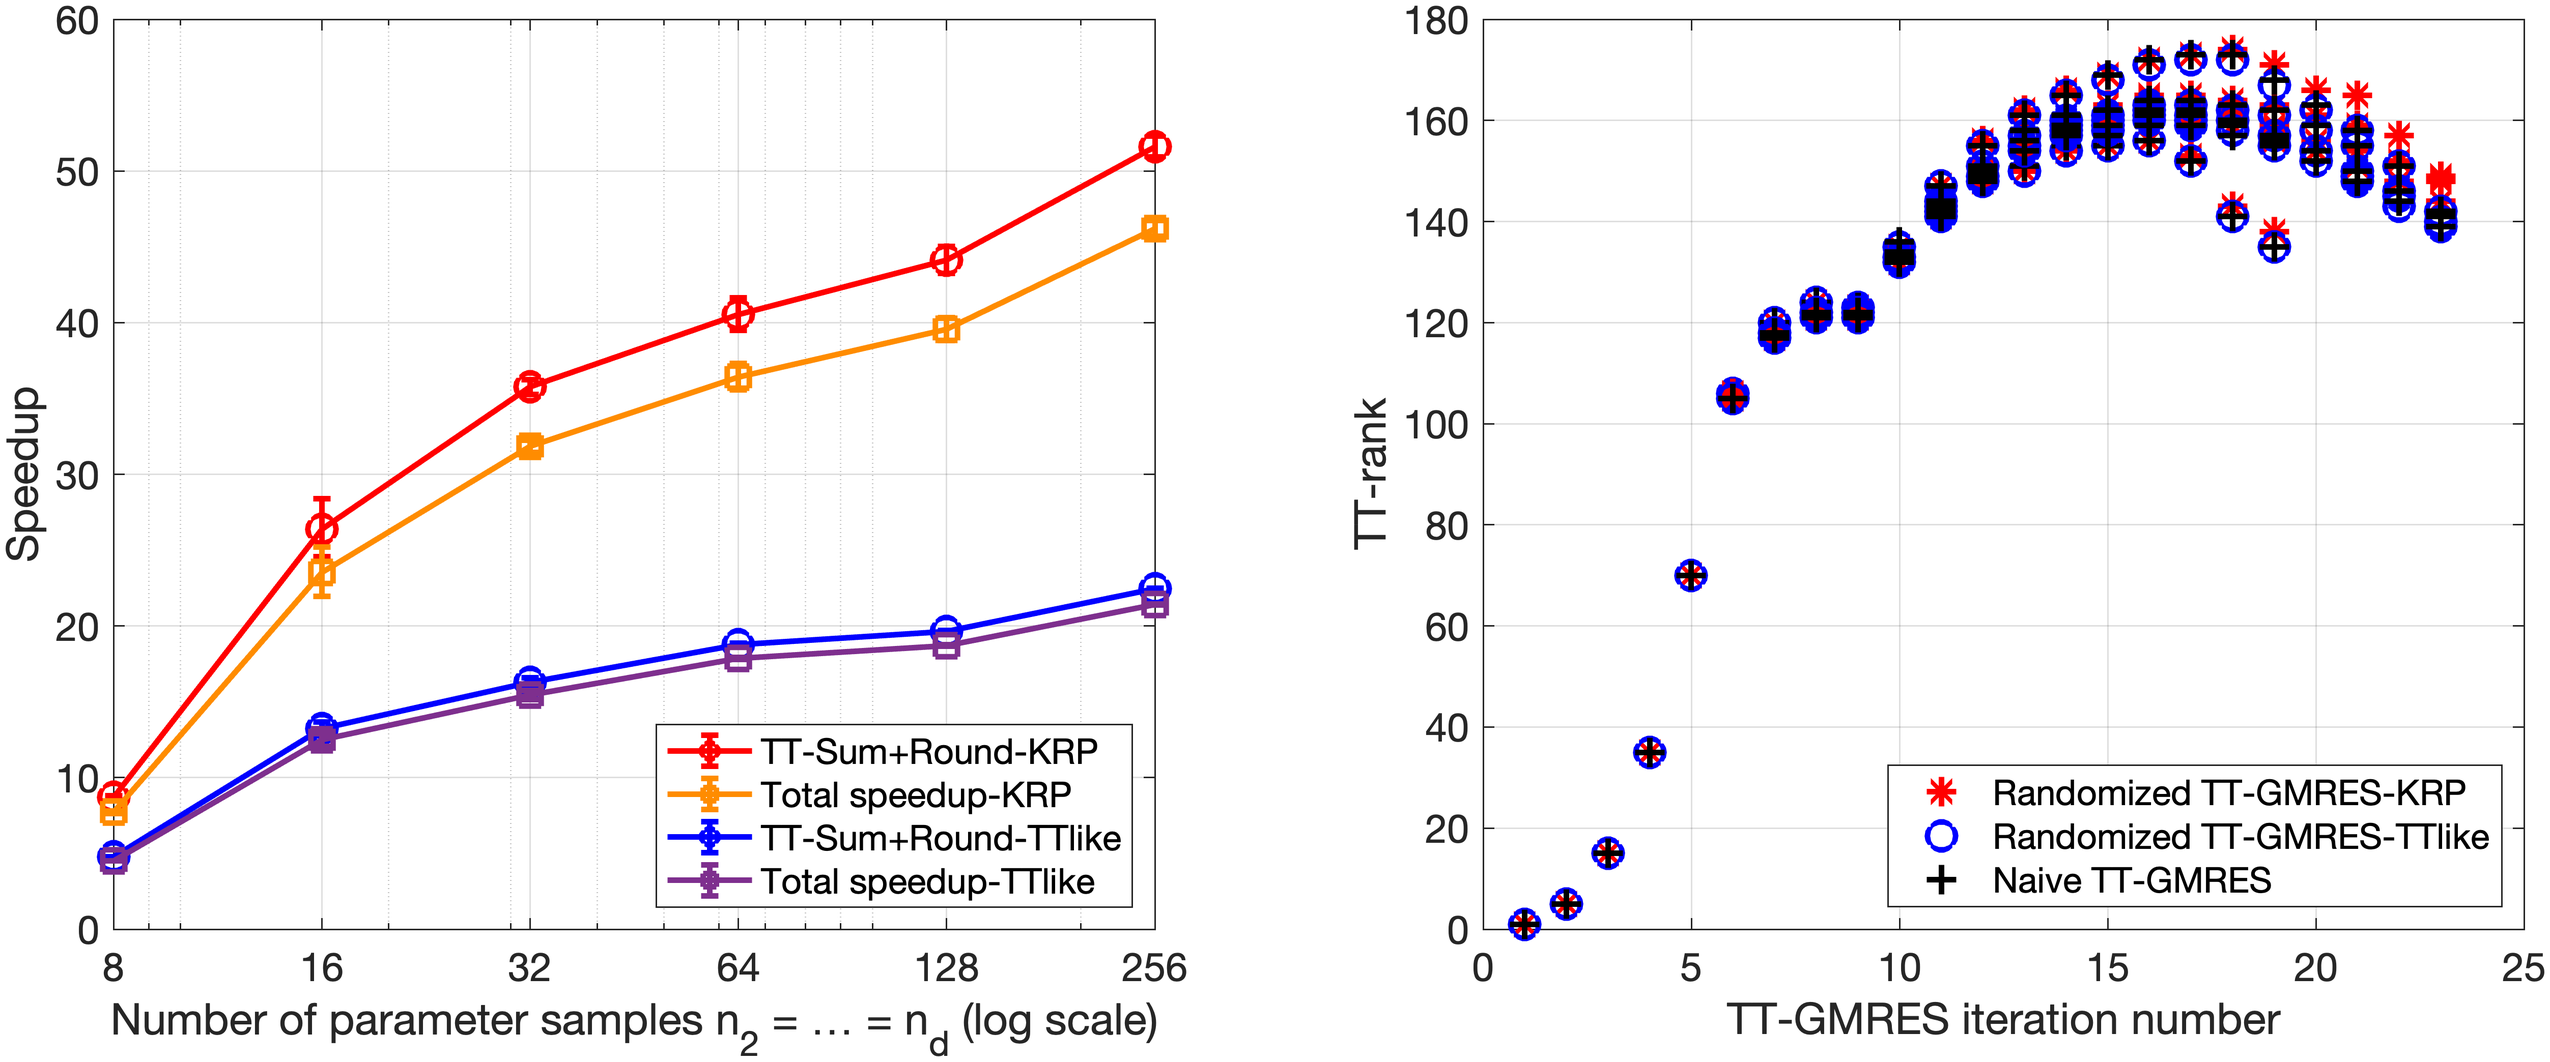
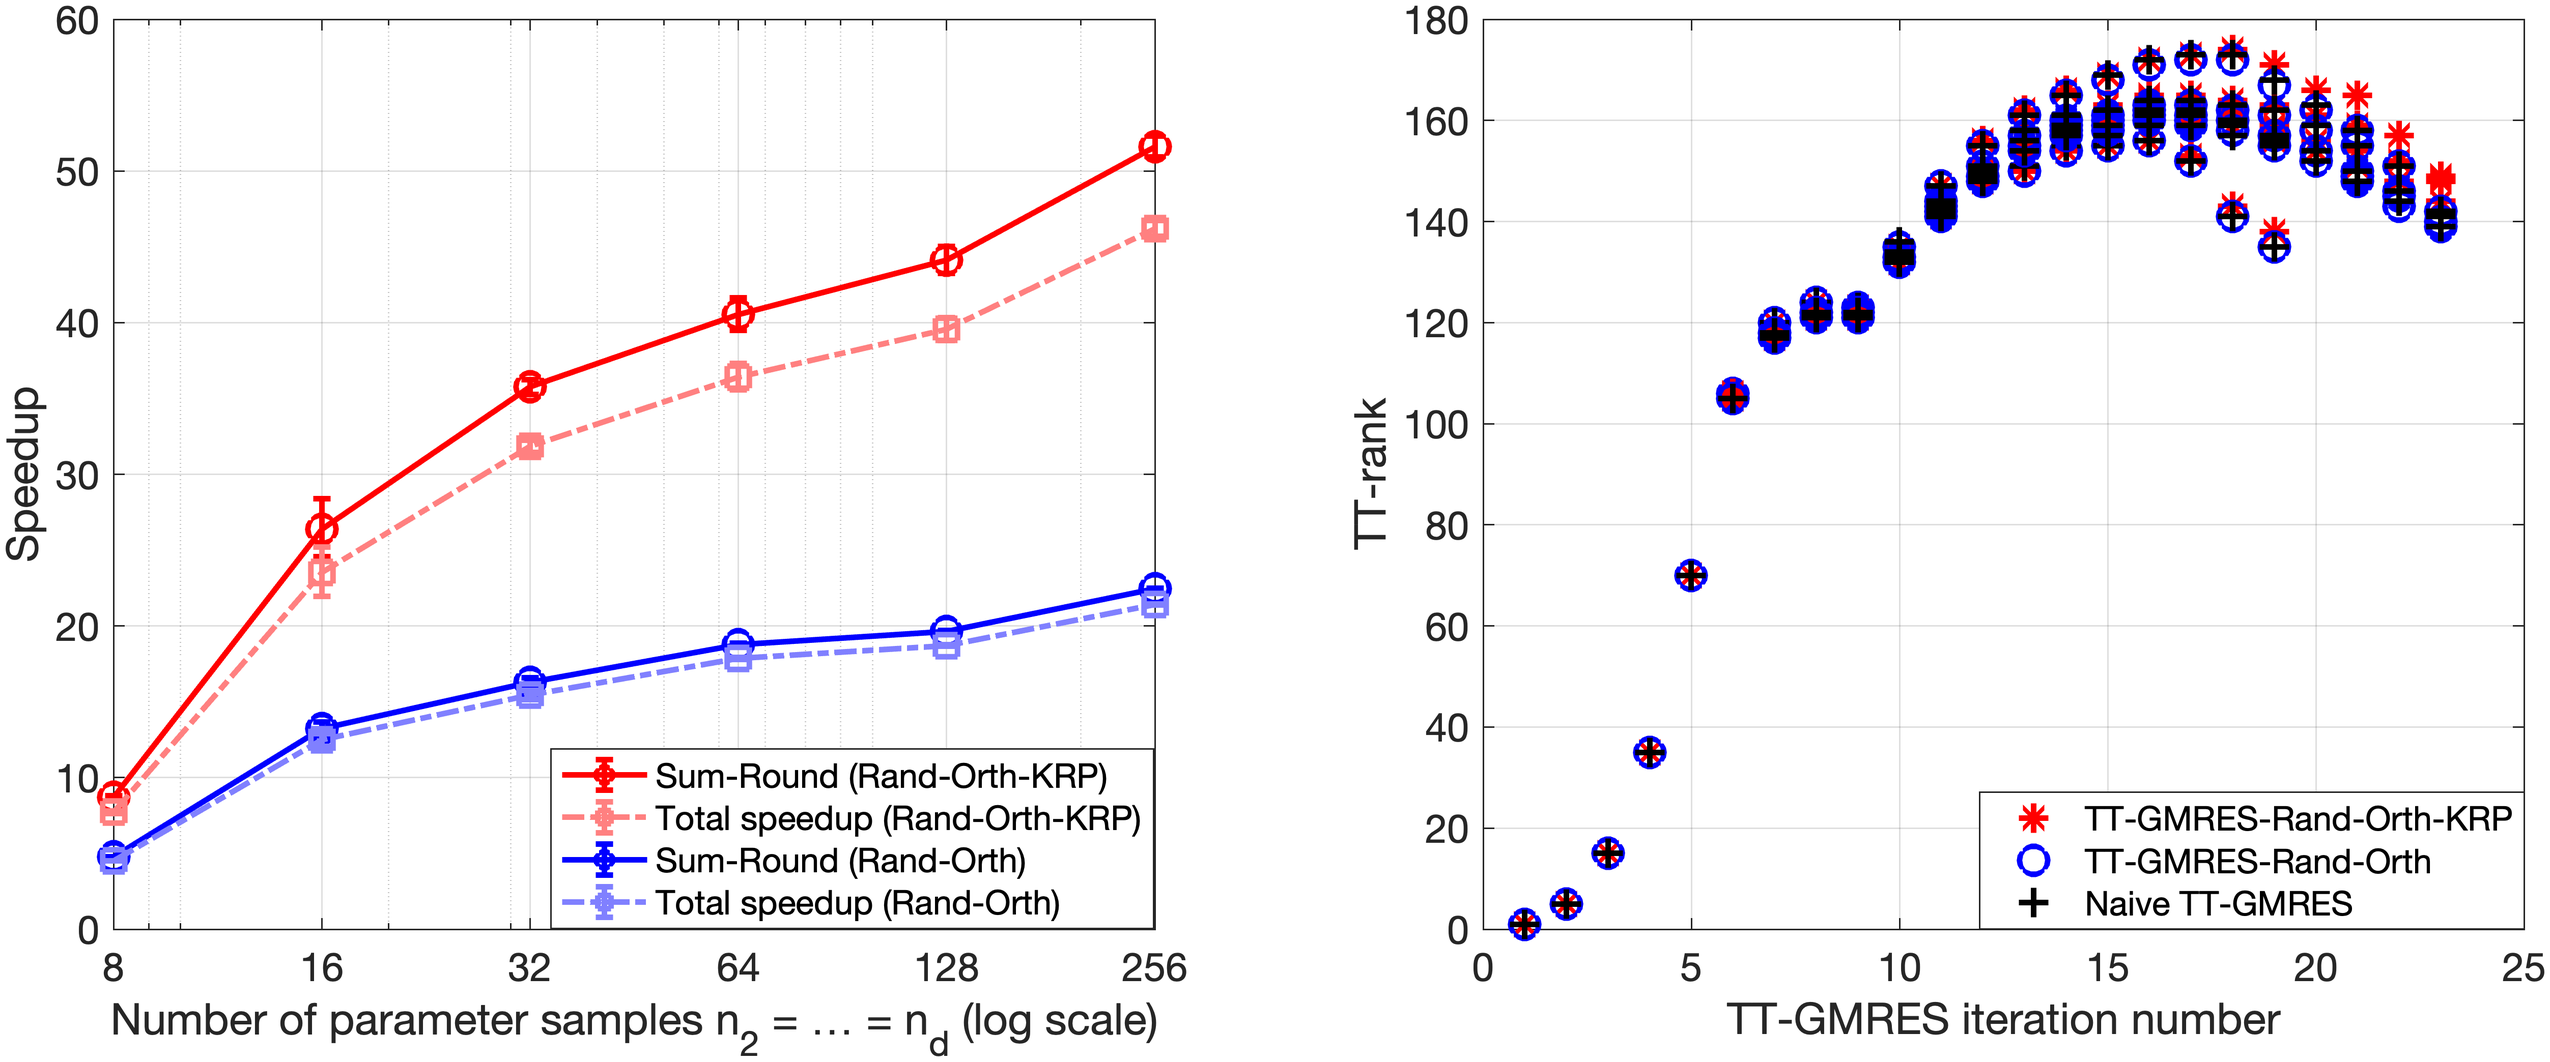
Updated experimental results

diff --git a/Experimental_results/Fig5.m b/Experimental_results/Fig5.m
@@ -62,8 +62,8 @@ sp1 = subplot(3,2,1,'Parent',f);
 hold on;
 
 p1 = errorbar(5*x, med_LR, err_low_LR, err_high_LR, 'ko', 'LineWidth', 2,'MarkerSize', 10, 'DisplayName', 'TT-Rounding');
-p2 = errorbar(5*x, med_RandKtr, err_low_RandKtr, err_high_RandKtr, 'r*','LineWidth', 2,'MarkerSize', 10, 'DisplayName','TT-KRP (Adap)');
-p3 = errorbar(5*x, med_RandLR, err_low_RandLR, err_high_RandLR, 'b+','LineWidth', 2,'MarkerSize', 10, 'DisplayName', 'TT-Orth-Rand (Adap)');
+p2 = errorbar(5*x, med_RandKtr, err_low_RandKtr, err_high_RandKtr, 'r*','LineWidth', 2,'MarkerSize', 10, 'DisplayName','Rand-Orth-KRP (Adap)');
+p3 = errorbar(5*x, med_RandLR, err_low_RandLR, err_high_RandLR, 'b+','LineWidth', 2,'MarkerSize', 10, 'DisplayName', 'Orth-Rand (Adap)');
 
 xticks(5*x)
 xticklabels({'1e-1','1e-2', '1e-3', '1e-4', '1e-5','1e-6','1e-7'})
@@ -81,11 +81,11 @@ grid on;
 
 sp2 = subplot(3,2,3,'Parent',f);
 hold on
-plot(5*(1:length(mean_speedupRandKtr)), mean_speedupRandKtr,   'r*-','markersize',10.5,'linewidth',2,'DisplayName', 'TT-KRP (Adap)'); 
-plot(5*(1:length(mean_speedupRandKtr_fix)), mean_speedupRandKtr_fix,   's--','Color','#FF8C00','markersize',10.5,'linewidth',2,'DisplayName', 'TT-KRP (Fix)'); 
-plot(5*(1:length(mean_speedupRandOrth_fix)),  mean_speedupRandOrth_fix,'x--','Color','#7E2F8E','markersize',10.5,'linewidth',2,'DisplayName', 'TT-Rand-Orth')
-plot(5*(1:length(mean_speedupRandLR)),  mean_speedupRandLR,'b+-','markersize',10.5,'linewidth',2,'DisplayName', 'TT-Orth-Rand (Adap)')
-plot(5*(1:length(mean_speedupRandLR_fix)),  mean_speedupRandLR_fix,'bd--','markersize',10.5,'linewidth',2,'DisplayName', 'TT-Orth-Rand (Fix)')
+plot(5*(1:length(mean_speedupRandKtr)), mean_speedupRandKtr,   'r*-','markersize',10.5,'linewidth',2,'DisplayName', 'Rand-Orth-KRP (Adap)'); 
+plot(5*(1:length(mean_speedupRandKtr_fix)), mean_speedupRandKtr_fix,   's--','Color','#FF8C00','markersize',10.5,'linewidth',2,'DisplayName', 'Rand-Orth-KRP (Fix)'); 
+plot(5*(1:length(mean_speedupRandOrth_fix)),  mean_speedupRandOrth_fix,'x--','Color','#7E2F8E','markersize',10.5,'linewidth',2,'DisplayName', 'Rand-Orth')
+plot(5*(1:length(mean_speedupRandLR)),  mean_speedupRandLR,'b+-','markersize',10.5,'linewidth',2,'DisplayName', 'Orth-Rand (Adap)')
+plot(5*(1:length(mean_speedupRandLR_fix)),  mean_speedupRandLR_fix,'bd--','markersize',10.5,'linewidth',2,'DisplayName', 'Orth-Rand (Fix)')
 plot(5*(1:length(mean_speedupLR)), mean_speedupLR,'ko-','markersize',10.5,'linewidth',2,'DisplayName', 'TT-Rounding')
 
 xticks(5*(1:7))
@@ -101,8 +101,8 @@ grid on;
 hold off
 
 sp3 = subplot(3,2,5,'Parent',f);
-plot(5*(1:length(mean_compRandKRP)), mean_compRandKRP,   'r*-','markersize',10.5,'linewidth',2,'DisplayName', 'TT-KRP (Adap)'); hold on
-plot(5*(1:length(mean_compRandLR)),  mean_compRandLR,'b+-','markersize',10.5,'linewidth',2,'DisplayName', 'TT-Orth-Rand (Adap)')
+plot(5*(1:length(mean_compRandKRP)), mean_compRandKRP,   'r*-','markersize',10.5,'linewidth',2,'DisplayName', 'Rand-Orth-KRP (Adap)'); hold on
+plot(5*(1:length(mean_compRandLR)),  mean_compRandLR,'b+-','markersize',10.5,'linewidth',2,'DisplayName', 'Orth-Rand (Adap)')
 plot(5*(1:length(mean_compLR)), mean_compLR,'ko-','markersize',10.5,'linewidth',2,'DisplayName', 'TT-Rounding')
 
 xticks(5*(1:7))
@@ -167,8 +167,8 @@ x = 1:size(errorsLR, 1);  % Assuming same number of rows for all
 sp4 = subplot(3,2,2,'Parent',f);
 hold on;
 p1 = errorbar(5*x, med_LR, err_low_LR, err_high_LR, 'ko', 'LineWidth', 2,'MarkerSize', 10, 'DisplayName', 'TT-Rounding');
-p2= errorbar(5*x, med_RandKtr, err_low_RandKtr, err_high_RandKtr, 's','Color','#DC143C','LineWidth', 2,'MarkerSize', 10,   'DisplayName','TT-KRP (Adap-R)');
-p3 = errorbar(5*x, med_RandLR, err_low_RandLR, err_high_RandLR, 'b+','LineWidth', 2,'MarkerSize', 10,  'DisplayName', 'TT-Orth-Rand (Adap)');
+p2= errorbar(5*x, med_RandKtr, err_low_RandKtr, err_high_RandKtr, 's','Color','#DC143C','LineWidth', 2,'MarkerSize', 10,   'DisplayName','Rand-Orth-KRP (Adap-R)');
+p3 = errorbar(5*x, med_RandLR, err_low_RandLR, err_high_RandLR, 'b+','LineWidth', 2,'MarkerSize', 10,  'DisplayName', 'Orth-Rand (Adap)');
 
 xticks(5*x)
 xticklabels({'1e-1','1e-2', '1e-3', '1e-4', '1e-5','1e-6','1e-7'})
@@ -186,9 +186,9 @@ hold off
 
 sp5 = subplot(3,2,4,'Parent',f);
 hold on
-plot(5*(1:length(mean_speedupRandKtr)), mean_speedupRandKtr,   'r*-','markersize',10.5,'linewidth',2,'DisplayName', 'TT-KRP (Adap)'); hold on
-plot(5*(1:length(mean_speedupRandKtr_round)), mean_speedupRandKtr_round,   's--','Color','#DC143C','markersize',10.5,'linewidth',2,'DisplayName', 'TT-KRP (Adap-R)'); hold on
-plot(5*(1:length(mean_speedupRandLR)),  mean_speedupRandLR,'b+-','markersize',10.5,'linewidth',2,'DisplayName', 'TT-Orth-Rand (Adap)')
+plot(5*(1:length(mean_speedupRandKtr)), mean_speedupRandKtr,   'r*-','markersize',10.5,'linewidth',2,'DisplayName', 'Rand-Orth-KRP (Adap)'); hold on
+plot(5*(1:length(mean_speedupRandKtr_round)), mean_speedupRandKtr_round,   's--','Color','#DC143C','markersize',10.5,'linewidth',2,'DisplayName', 'Rand-Orth-KRP (Adap-R)'); hold on
+plot(5*(1:length(mean_speedupRandLR)),  mean_speedupRandLR,'b+-','markersize',10.5,'linewidth',2,'DisplayName', 'Orth-Rand (Adap)')
 plot(5*(1:length(mean_speedupLR)), mean_speedupLR,'ko-','markersize',10.5,'linewidth',2,'DisplayName', 'TT-Rounding')
 
 xticks(5*(1:7))
@@ -205,8 +205,8 @@ hold off
 
 sp6 = subplot(3,2,6,'Parent',f);
 p1 = plot(5*(1:length(mean_compLR)), mean_compLR,'ko-','markersize',10.5,'linewidth',2,'DisplayName', 'TT-Rounding');hold on
-p2 = plot(5*(1:length(mean_compRandKRP_round)), mean_compRandKRP_round,   's--','Color','#DC143C','markersize',10.5,'linewidth',2,'DisplayName', 'TT-KRP (Adap-R)'); 
-p3 = plot(5*(1:length(mean_compRandLR)),  mean_compRandLR,'b+-','markersize',10.5,'linewidth',2,'DisplayName', 'TT-Orth-Rand (Adap)');
+p2 = plot(5*(1:length(mean_compRandKRP_round)), mean_compRandKRP_round,   's--','Color','#DC143C','markersize',10.5,'linewidth',2,'DisplayName', 'Rand-Orth-KRP (Adap-R)'); 
+p3 = plot(5*(1:length(mean_compRandLR)),  mean_compRandLR,'b+-','markersize',10.5,'linewidth',2,'DisplayName', 'Orth-Rand (Adap)');
 
 xticks(5*(1:7))
 xticklabels({'1e-1','1e-2', '1e-3', '1e-4', '1e-5','1e-6','1e-7'})
@@ -224,11 +224,11 @@ box on
 hold off
 
 drawnow;
-set(lgd1,'Units', 'normalized','Position',[0.1335 0.710387399463807 0.159 0.0669999999999999], 'FontSize', 12);
-set(lgd2,'Units', 'normalized','Position',[0.322 0.513972556141716 0.143 0.111270777479893],'FontSize',10.6);
-set(lgd3,'Units', 'normalized','Position',[0.3055 0.258664245149759 0.159 0.0670241286863271],'FontSize',12)
-set(lgd4,'Units', 'normalized','Position',[0.5705 0.710071751852172 0.1675 0.0670241286863271],'FontSize',12);
-set(lgd5,'Units', 'normalized','Position',[0.76 0.540835826919197 0.145 0.0857908847184999],'FontSize',11);
-set(lgd6,'Units', 'normalized','Position',[0.7375 0.260674969010349 0.1675 0.0650134048257373],'FontSize',12);
+set(lgd1,'Units', 'normalized','Position',[0.13025 0.710387399463807 0.1595 0.0669999999999999], 'FontSize', 11.5);
+set(lgd2,'Units', 'normalized','Position',[0.318 0.515316642163222 0.147 0.111270777479893],'FontSize',10.3);
+set(lgd3,'Units', 'normalized','Position',[0.30425 0.258664245149759 0.1595 0.0670241286863271],'FontSize',11.5)
+set(lgd4,'Units', 'normalized','Position',[0.57025 0.710071751852172 0.172 0.067024128686327],'FontSize',11.5);
+set(lgd5,'Units', 'normalized','Position',[0.74425 0.540835826919197 0.1605 0.0857908847184999],'FontSize',10.5);
+set(lgd6,'Units', 'normalized','Position',[0.73225 0.260674969010349 0.172 0.0650134048257373],'FontSize',11.5);
 
 exportgraphics(f,'Fig5.png','Resolution', 400)

diff --git a/Experimental_results/Fig7_and_8.m b/Experimental_results/Fig7_and_8.m
@@ -38,23 +38,29 @@ f=figure('Position', [100, 100, 1100, 400]);
 sp1 = subplot(1,2,1);
 hold on;
 
-sumtime_p1 = errorbar(N(1:4), med_sumTime_Normal, low_sumTime_Normal, high_sumTime_Normal, 'ko-', 'LineWidth', 2.2,'MarkerSize', 10, 'DisplayName', 'TT-Sum+Round-Naive');
-runtime_p1 = errorbar(N(1:4), med_runTime_Normal, low_runTime_Normal, high_runTime_Normal, 's--','Color' ,'#84563C','LineWidth', 2.2,'MarkerSize', 10, 'DisplayName', 'Total Time-Naive');
+sumtime_p1 = errorbar(N(1:4), med_sumTime_Normal, low_sumTime_Normal, high_sumTime_Normal, 'ko-', 'LineWidth', 2.2,'MarkerSize', 10, 'DisplayName', 'Sum-Round (Naive)');
+% runtime_p1 = errorbar(N(1:4), med_runTime_Normal, low_runTime_Normal, high_runTime_Normal, '-s','Color' ,'#84563C','LineWidth', 2.2,'MarkerSize', 10, 'DisplayName', 'Total time (Naive)');
+runtime_p1 = errorbar(N(1:4), med_runTime_Normal, low_runTime_Normal, high_runTime_Normal, '-.s','Color' ,'#808080','LineWidth', 2.2,'MarkerSize', 10, 'DisplayName', 'Total time (Naive)');
 
-sumtime_p2 = errorbar(N, med_sumTime_KRP, low_sumTime_KRP, high_sumTime_KRP, 'ro-','LineWidth', 2.2,'MarkerSize', 10, 'DisplayName','TT-Sum+Round-KRP');
-runtime_p2 = errorbar(N, med_runTime_KRP, low_runTime_KRP, high_runTime_KRP, '--s','Color','#FF8C00','LineWidth', 2.2,'MarkerSize', 10, 'DisplayName','Total Time-KRP');
 
-sumtime_p3 = errorbar(N, med_sumTime_TTlike, low_sumTime_TTlike, high_sumTime_TTlike, 'bo-','LineWidth', 2.2,'MarkerSize', 10, 'DisplayName', 'TT-Sum+Round-TTlike');
-runtime_p3 = errorbar(N, med_runTime_TTlike, low_runTime_TTlike, high_runTime_TTlike, '--s','Color','#7E2F8E','LineWidth', 2.2,'MarkerSize', 10, 'DisplayName', 'Total Time-TTlike');
+runtime_p2 = errorbar(N, med_runTime_KRP, low_runTime_KRP, high_runTime_KRP, '-.s','Color','#FF8080','LineWidth', 2.2,'MarkerSize', 10, 'DisplayName','Total time (Rand-Orth-KRP)');
+sumtime_p2 = errorbar(N, med_sumTime_KRP, low_sumTime_KRP, high_sumTime_KRP, 'ro-','LineWidth', 2.2,'MarkerSize', 10, 'DisplayName','Sum-Round (Rand-Orth-KRP)');
+% runtime_p2 = errorbar(N, med_runTime_KRP, low_runTime_KRP, high_runTime_KRP, '-s','Color','#FF8C00','LineWidth', 2.2,'MarkerSize', 10, 'DisplayName','Total time (Rand-Orth-KRP)');
+
+runtime_p3 = errorbar(N, med_runTime_TTlike, low_runTime_TTlike, high_runTime_TTlike, '-.s','Color','#8080FF','LineWidth', 2.2,'MarkerSize', 10, 'DisplayName', 'Total time (Rand-Orth)');
+sumtime_p3 = errorbar(N, med_sumTime_TTlike, low_sumTime_TTlike, high_sumTime_TTlike, 'bo-','LineWidth', 2.2,'MarkerSize', 10, 'DisplayName', 'Sum-Round (Rand-Orth)');
+% runtime_p3 = errorbar(N, med_runTime_TTlike, low_runTime_TTlike, high_runTime_TTlike, '-s','Color','#7E2F8E','LineWidth', 2.2,'MarkerSize', 10, 'DisplayName', 'Total time (Rand Orth)');
+
 
 set(gca, 'XScale', 'log')
 set(gca, 'YScale', 'log')
 xlabel('Number of parameter samples n_2 = \ldots = n_d (log scale)', 'FontSize', 14)
 ylabel('Time (Seconds)', 'FontSize', 14)
 xticks(N);
+ylim([5*10^1, 10^5])
 set(gca,'FontSize',14)
 lgd1 = legend(sp1, [runtime_p2,sumtime_p2,runtime_p3,sumtime_p3,runtime_p1,sumtime_p1]);
-set(lgd1,'Units', 'normalized','Position',[0.307727272727273 0.12 0.153181818181818 0.24125], 'FontSize', 12.5);
+set(lgd1,'Units', 'normalized','Position',[0.278181818181818 0.1225 0.185 0.24125], 'FontSize', 12);
 box on
 grid on;
 
@@ -84,7 +90,9 @@ hold off
 xlabel('TT-GMRES iteration number', 'FontSize', 14)
 ylabel('TT-rank', 'FontSize', 14)
 set(gca,'FontSize',14)
-legend([p3,p1,p2], 'Randomized TT-GMRES-KRP' , 'Randomized TT-GMRES-TTlike','Naive TT-GMRES', 'location', 'southeast', 'FontSize', 12.5)
+legend2 = legend([p3,p1,p2], 'TT-GMRES-Rand-Orth-KRP' , 'TT-GMRES-Rand-Orth','Naive TT-GMRES');
+
+set(legend2,'Position',[0.729090909090909 0.12125 0.175 0.12125],'FontSize',12);
 box on
 grid on;
 exportgraphics(f, 'Fig8.png','Resolution', 400)
@@ -97,8 +105,8 @@ avg_err_randKRP = mean(res_err_randKRP,2);
 
 f = figure('Position', [100, 100, 520, 400]);
 hold on 
-plot(N,avg_err_randKRP(1:length(N)),'r*-', 'LineWidth',2.2,'markersize',10,'DisplayName','Randomized TT-GMRES-KRP'); 
-plot(N,avg_err_rand(1:length(N)),'bo-','LineWidth',2.2,'markersize',10,'DisplayName','Randomized TT-GMRES-TTlike')
+plot(N,avg_err_randKRP(1:length(N)),'r*-', 'LineWidth',2.2,'markersize',10,'DisplayName','TT-GMRES-Rand-Orth-KRP'); 
+plot(N,avg_err_rand(1:length(N)),'bo-','LineWidth',2.2,'markersize',10,'DisplayName','TT-GMRES-Rand-Orth')
 plot(N,avg_err_normal(1:length(N)),'k+-','LineWidth',2.2,'markersize',10,'DisplayName','Naive TT-GMRES')
 
 set(gca, 'XScale', 'log')
@@ -109,7 +117,9 @@ ylabel('Relative residual error', 'FontSize', 14)
 xticks(N);
 set(gca,'FontSize',15)
 
-legend('location', 'best','FontSize', 13.5)
+lgd = legend('FontSize', 11.8);
+set(lgd, 'Units', 'normalized');                     % Use normalized units
+set(lgd, 'Position', [0.4, 0.45, 0.2, 0.1]);          % Manually center it
 
 box on
 grid on

diff --git a/Experimental_results/Fig6.m b/Experimental_results/Fig6.m
@@ -51,7 +51,10 @@ hold on
 speedup_krp = median(runtimeNormalGMRES, 2) ./ median(runtimeRandKRPGMRES, 2);
 neg_krp = speedup_krp - min(runtimeNormalGMRES,[],2)./ max(runtimeRandKRPGMRES,[],2);
 pos_krp = max(runtimeNormalGMRES,[],2)./ min(runtimeRandKRPGMRES,[],2) - speedup_krp;
-errorbar(N, speedup_krp, neg_krp, pos_krp,'-s','Color','#FF8C00','markersize',10,'linewidth',2); 
+% errorbar(N, speedup_krp, neg_krp, pos_krp,'-s','Color','#FF8C00','markersize',10,'linewidth',2);
+errorbar(N, speedup_krp, neg_krp, pos_krp,'-.s','Color','#FF8080','markersize',10,'linewidth',2);
+
+
 
 
 
@@ -64,14 +67,17 @@ hold on
 speedup = median(runtimeNormalGMRES, 2) ./ median(runtimeRandGMRES, 2);
 neg = speedup - min(runtimeNormalGMRES,[],2)./ max(runtimeRandGMRES,[],2);
 pos = max(runtimeNormalGMRES,[],2)./ min(runtimeRandGMRES,[],2) - speedup;
-errorbar(N, speedup, neg, pos,'-s','Color','#7E2F8E','markersize',10,'linewidth',2);  %'Color','#008000'
+% errorbar(N, speedup, neg, pos,'-s','Color','#7E2F8E','markersize',10,'linewidth',2);  %'Color','#008000' 
+errorbar(N, speedup, neg, pos,'-.s','Color','#8080FF','markersize',10,'linewidth',2)
+
 
 set(gca, 'XScale', 'log')
 xlabel('Number of parameter samples n_2 = \ldots = n_d (log scale)', 'FontSize', 14)
 ylabel('Speedup', 'FontSize', 14)
 xticks(N);
 set(gca,'FontSize',14)
-legend('TT-Sum+Round-KRP','Total speedup-KRP', 'TT-Sum+Round-TTlike','Total speedup-TTlike', 'location', 'best','FontSize', 12.5)
+lgd1=legend('Sum-Round (Rand-Orth-KRP)','Total speedup (Rand-Orth-KRP)', 'Sum-Round (Rand-Orth)','Total speedup (Rand-Orth)');
+set(lgd1,'Position',[0.270548295454545 0.1208125 0.193636363636364 0.15875],'FontSize',12);
 box on
 grid on
 
@@ -100,7 +106,8 @@ hold off
 xlabel('TT-GMRES iteration number', 'FontSize', 14)
 ylabel('TT-rank', 'FontSize', 14)
 set(gca,'FontSize',14)
-legend([p3,p1,p2], 'Randomized TT-GMRES-KRP' , 'Randomized TT-GMRES-TTlike','Naive TT-GMRES', 'location', 'southeast','FontSize', 12.5)
+lgd2 = legend([p3,p1,p2], 'TT-GMRES-Rand-Orth-KRP' , 'TT-GMRES-Rand-Orth','Naive TT-GMRES');
+set(lgd2,'Position',[0.73 0.12 0.175 0.12125],'FontSize',12);
 box on
 grid on
 
@@ -113,8 +120,8 @@ avg_err_randKRP = mean(res_err_randKRP,2);
 
 f = figure('Position', [100, 100, 520, 400]);
 hold on 
-plot(N,avg_err_randKRP(1:length(N)),'r*-', 'LineWidth',2,'markersize',10,'DisplayName','Randomized TT-GMRES-KRP'); 
-plot(N,avg_err_rand(1:length(N)),'bo-','LineWidth',2,'markersize',10,'DisplayName','Randomized TT-GMRES-TTlike')
+plot(N,avg_err_randKRP(1:length(N)),'r*-', 'LineWidth',2,'markersize',10,'DisplayName','TT-GMRES-Rand-Orth-KRP'); 
+plot(N,avg_err_rand(1:length(N)),'bo-','LineWidth',2,'markersize',10,'DisplayName','TT-GMRES-Rand-Orth')
 plot(N,avg_err_normal(1:length(N)),'k+-','LineWidth',2,'markersize',10,'DisplayName','Naive TT-GMRES')
 
 set(gca, 'XScale', 'log')

diff --git a/Experimental_results/Fig4.m b/Experimental_results/Fig4.m
@@ -16,9 +16,9 @@ f = figure('Position', [100, 100, 800, 280]);
 subplot(1,2,1)
 hold on
 p1 = errorbar(test_ranks, errLR, negLR, posLR,     'ko','markersize',10,'linewidth',2,'DisplayName','TT-Rounding');
-p2 = errorbar(test_ranks, errRandLR,   negRandLR,   posRandLR,    'b+','markersize',10,'linewidth',2,'DisplayName','TT-Orth-Rand (Fix)');
-p4 = errorbar(test_ranks, errRandOrth_krp, negRandOrth_krp, posRandOrth_krp,  'r*','markersize',10,'linewidth',2, 'DisplayName','TT-KRP (Fix)');
-p3 = errorbar(test_ranks, errRandOrth, negRandOrth, posRandOrth,  'x','Color','#7E2F8E','markersize',10,'linewidth',2,'DisplayName', 'TT-Rand-Orth');
+p2 = errorbar(test_ranks, errRandLR,   negRandLR,   posRandLR,    'b+','markersize',10,'linewidth',2,'DisplayName','Orth-Rand (Fix)');
+p4 = errorbar(test_ranks, errRandOrth_krp, negRandOrth_krp, posRandOrth_krp,  'r*','markersize',10,'linewidth',2, 'DisplayName','Rand-Orth-KRP (Fix)');
+p3 = errorbar(test_ranks, errRandOrth, negRandOrth, posRandOrth,  'x','Color','#7E2F8E','markersize',10,'linewidth',2,'DisplayName', 'Rand-Orth');
 hold off
 
 yticks([1e-5,1e-4,1e-3,1e-2,1e-1, 1e0])
@@ -27,7 +27,8 @@ ax = gca;
 ax.YScale = 'log';
 xlabel('Maximum Target Rank', 'FontSize', 16)
 ylabel('Relative Error', 'FontSize', 16)
-legend([p4,p3,p2,p1],'Location', 'northeast')
+legend1 = legend([p4,p3,p2,p1]);
+set(legend1,'Position',[0.256875 0.674301843317972 0.2075 0.248214285714286]);
 set(gca,'FontSize',15)
 grid on;
 box on;
@@ -43,14 +44,16 @@ box on;
 subplot(1,2,2)
 hold on
 p1= plot(test_ranks, speedupLR,       'ko-','markersize',10,'linewidth',2,'DisplayName','TT-Rounding');
-p2 = plot(test_ranks, speedupRandLR,     'b+-','markersize',10,'linewidth',2,'DisplayName','TT-Orth-Rand (Fix)');
-p3 = plot(test_ranks, speedupRandOrth,  'x-','Color','#7E2F8E','markersize',10,'linewidth',2,'DisplayName', 'TT-Rand-Orth');
-p4 = plot(test_ranks, speedupRandOrth_krp, 'r*-','markersize',10,'linewidth',2,'DisplayName','TT-KRP (Fix)');
+p2 = plot(test_ranks, speedupRandLR,     'b+-','markersize',10,'linewidth',2,'DisplayName','Orth-Rand (Fix)');
+p3 = plot(test_ranks, speedupRandOrth,  'x-','Color','#7E2F8E','markersize',10,'linewidth',2,'DisplayName', 'Rand-Orth');
+p4 = plot(test_ranks, speedupRandOrth_krp, 'r*-','markersize',10,'linewidth',2,'DisplayName','Rand-Orth-KRP (Fix)');
     
 hold off
 xlabel('Maximum Target Rank', 'FontSize', 16)
 ylabel('Speedup', 'FontSize', 16)
-legend([p4,p3,p2,p1],'Location', 'northeast')
+legend2 = legend([p4,p3,p2,p1]);
+set(legend2,'Position',[0.6975 0.674301843317972 0.2075 0.248214285714286]);
+
 set(gca,'FontSize',15)
 box on;
 grid on;
